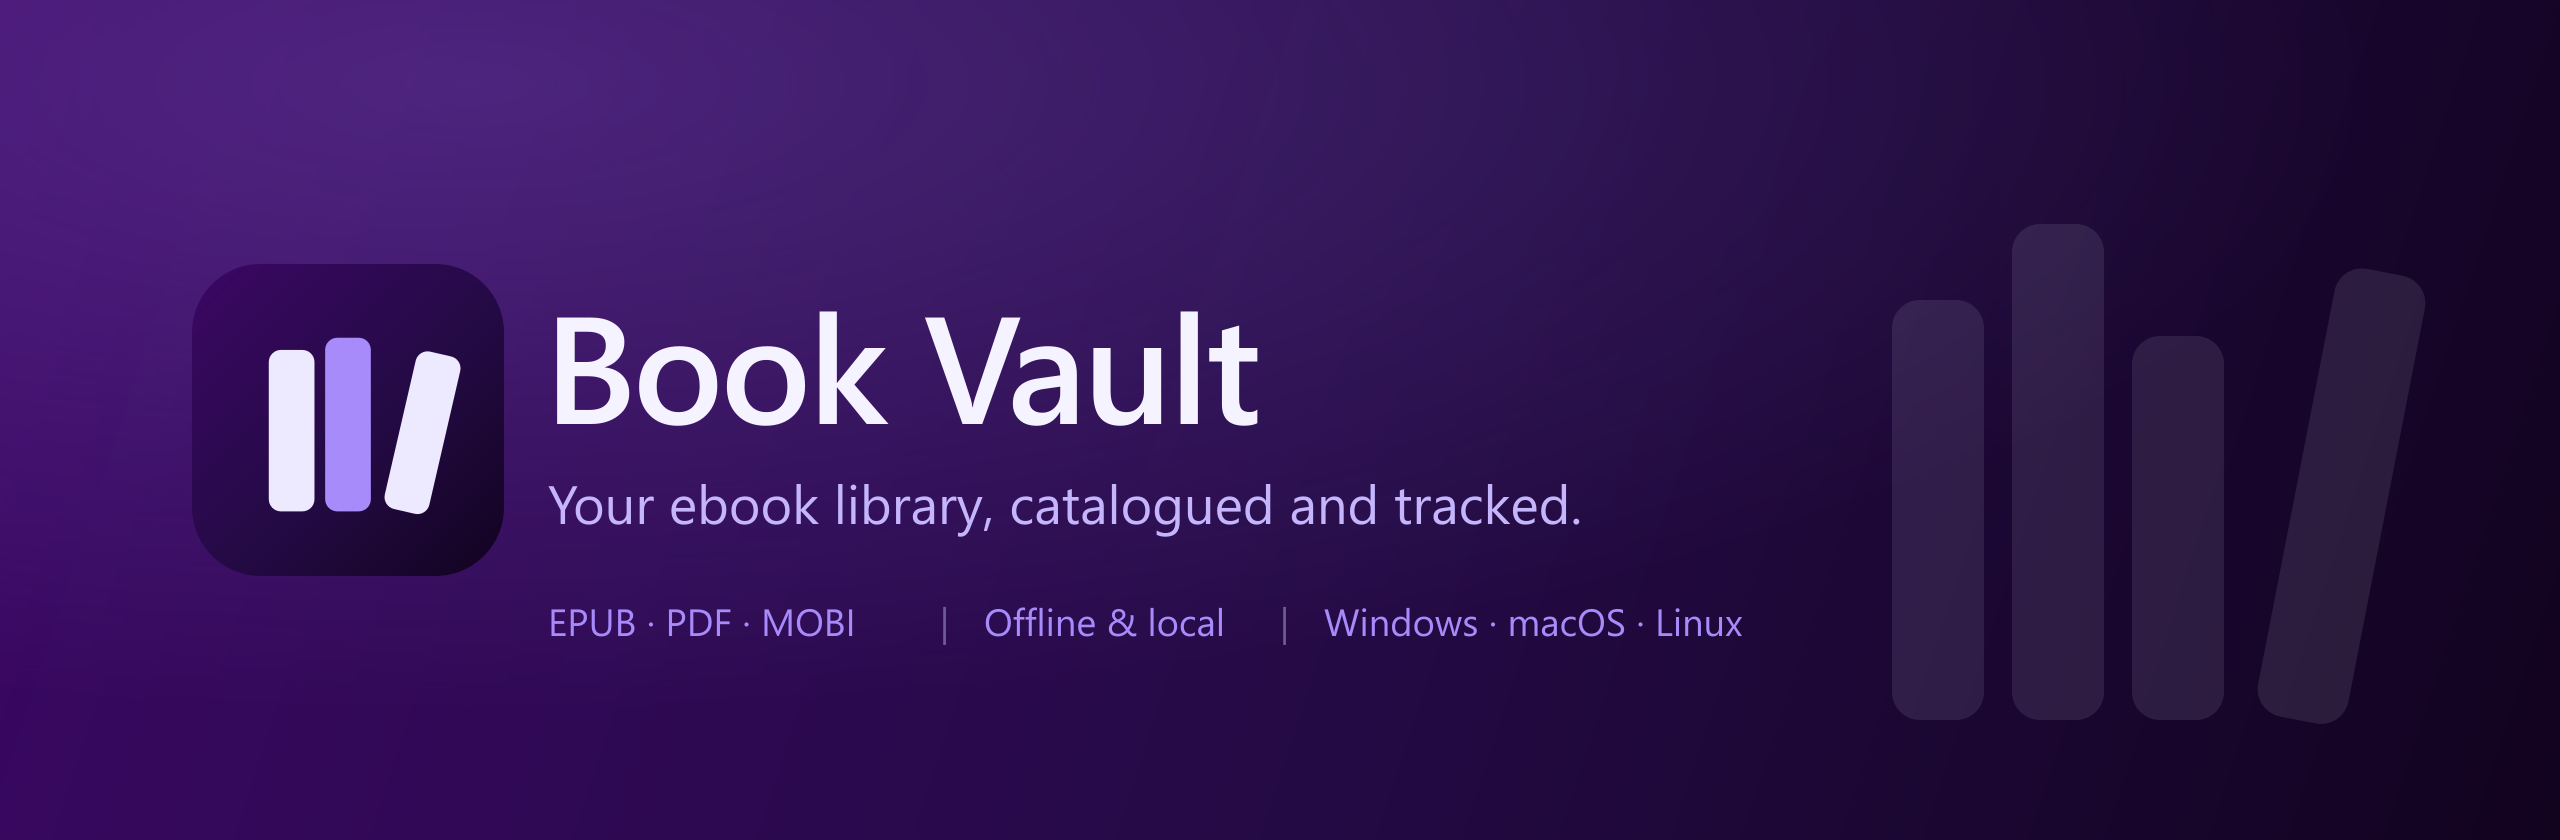
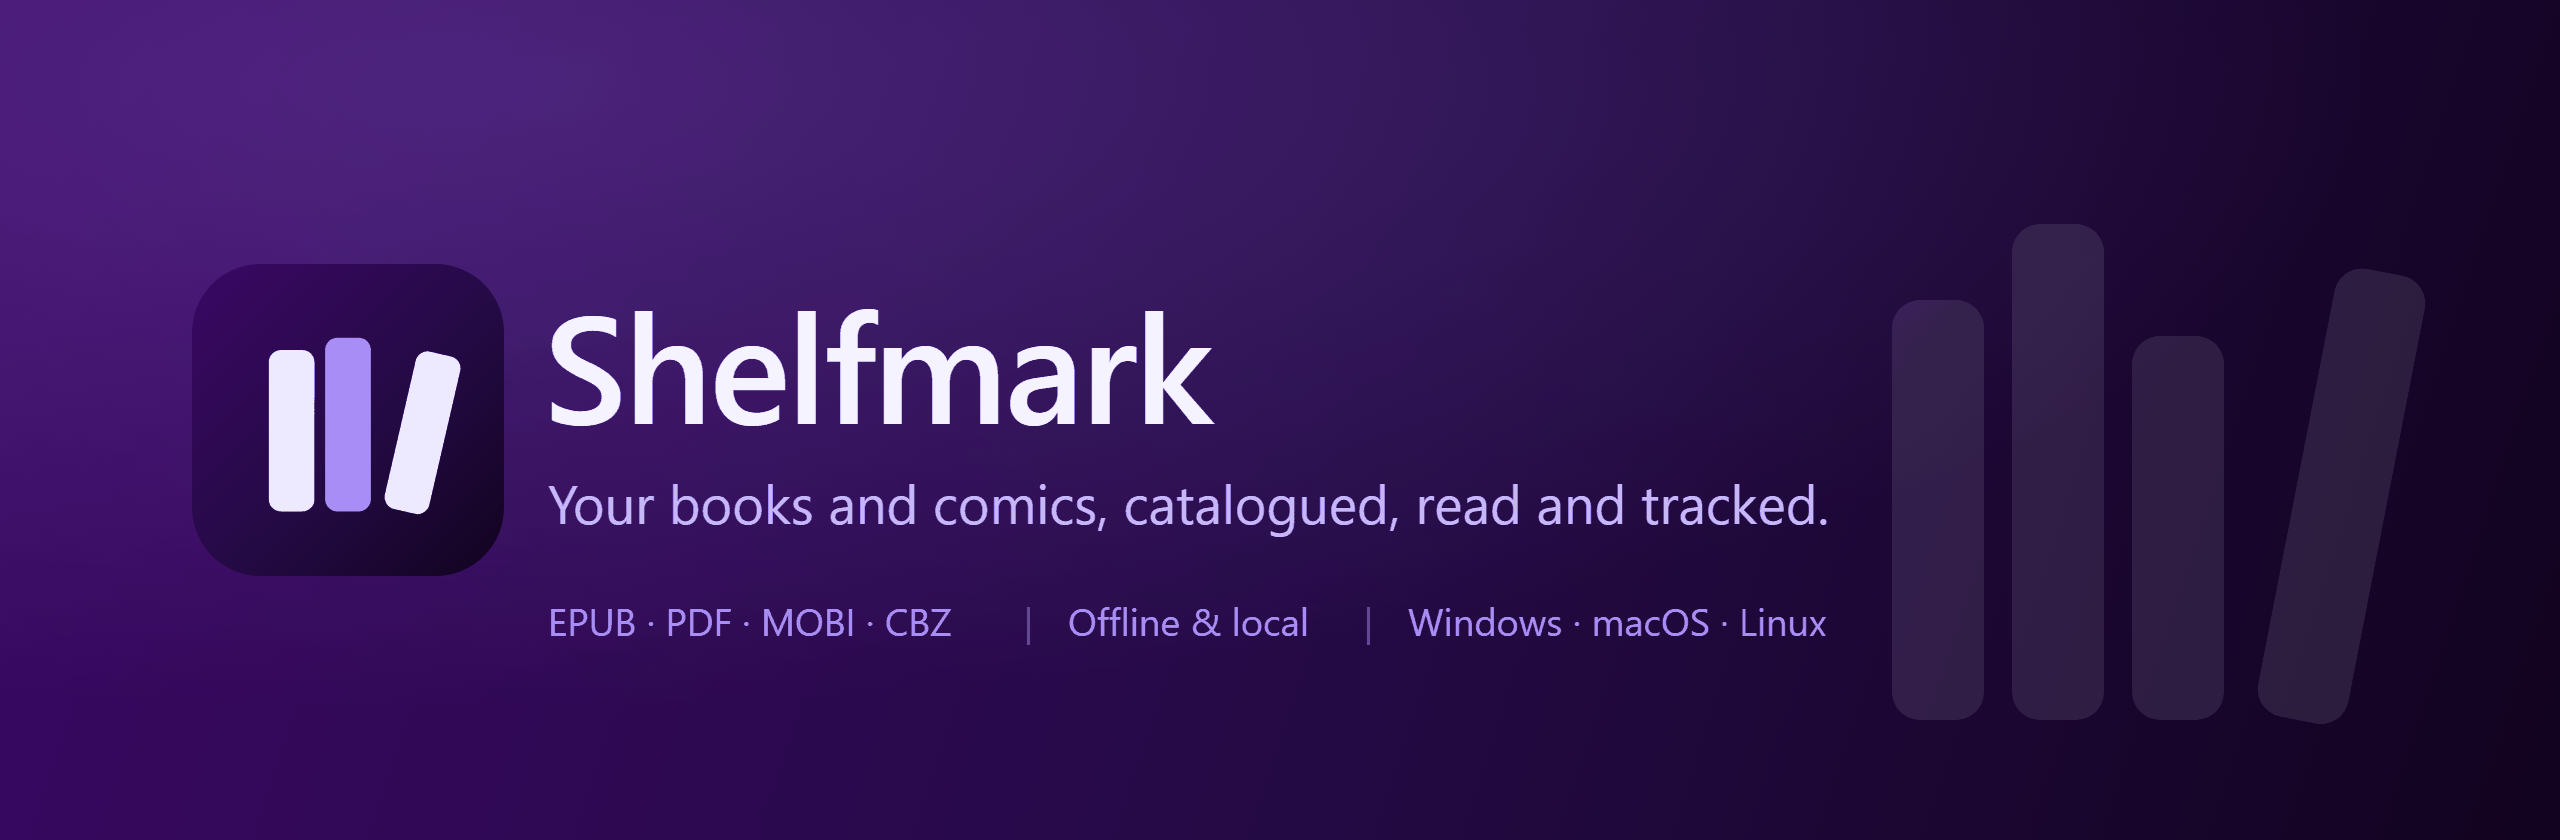
Rename Book Vault to Shelfmark
The old name described a narrower app. "Book" excluded the comics section
added in 0.3.0, and "Vault" said storage at a point where the app also reads
EPUBs itself and tracks what you finish. A shelfmark is the code a library
uses to say where an item sits on the shelf - indifferent to whether that
item is a novel or issue #103, and it happens to name the mark already in
the logo: three spines with the third leaning.

Renamed: product name, window title, npm package, cargo package and lib
(shelfmark / shelfmark_lib), the binary, release artifacts, the UI, the
banner wordmark and the README.

NOT renamed: the bundle identifier, still com.kas.bookvault. That string is
what picks the platform app-data directory, so changing it would strand
library.db and every cached cover behind a name no build looks under. It is
invisible to users. The localStorage keys (bv.readerPrefs, bv.libraryView.*)
are left alone for the same reason - renaming them would silently reset
reader typography and the grid/list choice.

The README also picked up the scope it had been missing: comics and series
shelves, CBZ/CBR in the format table with the reason CBR stays unopened, and
the removal of word counts and the reading check-in, which it still
described.

Version goes to 0.4.0 - new identity, and the installer needs a version
change to supersede an installed 0.3.x anyway.

Changed region(s): [[0.2188, 0.3714, 0.5, 0.5262], [0.2188, 0.5881, 0.7188, 0.65], [0.3438, 0.7119, 0.7188, 0.7738]]

diff --git a/src/pages/Dashboard.tsx b/src/pages/Dashboard.tsx
@@ -48,13 +48,13 @@ export default function Dashboard({
       ) : !configured ? (
         <EmptyState
           title="Let’s set things up"
-          body="Point Book Vault at the folder that holds your books (EPUB, PDF, MOBI), then scan to build your library."
+          body="Point Shelfmark at the folder that holds your books (EPUB, PDF, MOBI) and, if you have them, a second folder for comics (CBZ, CBR, PDF). Then scan to build your library."
           action={<Button variant="primary" onClick={() => goto("settings")}>Open Settings</Button>}
         />
       ) : stats && stats.total_books + stats.total_comics === 0 ? (
         <EmptyState
-          title="No books indexed yet"
-          body="Add book files to your folder, then run a scan to index them and pull their metadata."
+          title="Nothing indexed yet"
+          body="Add books or comics to your folders, then run a scan to index them and pull their metadata."
           action={
             <Button variant="primary" busy={scanning} onClick={onScan}>
               <Icon name="scan" className="h-4 w-4" /> Scan Books

diff --git a/src/pages/Library.tsx b/src/pages/Library.tsx
@@ -850,7 +850,7 @@ function BookDrawer({
   }
 
   async function del() {
-    if (!confirm(`Remove "${book.title}" from the library?\n\nThis only removes it from Book Vault — the file on disk is left untouched.`))
+    if (!confirm(`Remove "${book.title}" from the library?\n\nThis only removes it from Shelfmark — the file on disk is left untouched.`))
       return;
     try {
       await api.deleteBook(book.id);
@@ -943,7 +943,7 @@ function BookDrawer({
                   <Icon name="open" className="h-4 w-4" /> Open in system reader
                 </Button>
                 <p className="mt-1.5 text-center text-[11px] text-slate-500">
-                  Book Vault's reader opens in its own window and tracks your position as you
+                  Shelfmark's reader opens in its own window and tracks your position as you
                   go. The system reader won't report progress back.
                 </p>
               </>

diff --git a/src/pages/Settings.tsx b/src/pages/Settings.tsx
@@ -118,7 +118,7 @@ export default function SettingsPage({
           <Icon name="sparkles" className="h-4 w-4 text-teal-400" /> About metadata
         </h2>
         <p className="leading-relaxed">
-          Book Vault first reads metadata embedded in each file. From a book's detail panel you can also
+          Shelfmark first reads metadata embedded in each file. From a book's detail panel you can also
           fetch richer data (cover, page count, subjects, description) from{" "}
           <span className="text-slate-200">Open Library</span> — a free, open catalogue. Goodreads shut its
           public API in 2020, so Open Library stands in for it. If nothing matches, just type the details in

diff --git a/src/App.tsx b/src/App.tsx
@@ -99,7 +99,7 @@ export default function App() {
         >
           <Logo className="h-9 w-9 shrink-0 rounded-lg shadow-lg shadow-violet-950/40" />
           <div>
-            <div className="text-sm font-semibold leading-tight">Book Vault</div>
+            <div className="text-sm font-semibold leading-tight">Shelfmark</div>
             <div className="text-[11px] text-slate-500">Reading tracker</div>
           </div>
         </div>

diff --git a/src/ui.tsx b/src/ui.tsx
@@ -165,7 +165,7 @@ export function Icon({
   );
 }
 
-/** The Book Vault mark — mirrors the app icon (see app-icon.svg). */
+/** The Shelfmark mark — mirrors the app icon (see app-icon.svg). */
 export function Logo({ className }: { className?: string }) {
   return (
     <svg viewBox="0 0 1024 1024" className={className} xmlns="http://www.w3.org/2000/svg">

diff --git a/index.html b/index.html
@@ -3,7 +3,7 @@
   <head>
     <meta charset="UTF-8" />
     <meta name="viewport" content="width=device-width, initial-scale=1.0" />
-    <title>Book Vault</title>
+    <title>Shelfmark</title>
   </head>
 
   <body>

diff --git a/src-tauri/src/lib.rs b/src-tauri/src/lib.rs
@@ -1,4 +1,4 @@
-//! Book Vault — personal ebook library & reading tracker. Rust core entry point:
+//! Shelfmark — personal library and reader for ebooks and comics. Rust core entry point:
 //! wires up SQLite state, the HTTP client, and the Tauri command surface.
 
 mod commands;
@@ -82,7 +82,7 @@ pub fn run() {
             }
 
             let http = reqwest::Client::builder()
-                .user_agent("BookVault/0.1 (personal library manager)")
+                .user_agent("Shelfmark/0.4 (personal library manager)")
                 .timeout(Duration::from_secs(30))
                 .build()
                 .map_err(|e| Box::<dyn std::error::Error>::from(e.to_string()))?;

diff --git a/src-tauri/src/formats/mod.rs b/src-tauri/src/formats/mod.rs
@@ -122,7 +122,7 @@ mod tests {
 
     /// Build a small, spec-compliant EPUB in a temp file and return its path.
     fn build_epub() -> std::path::PathBuf {
-        let path = std::env::temp_dir().join(format!("bookvault_test_{}.epub", std::process::id()));
+        let path = std::env::temp_dir().join(format!("shelfmark_test_{}.epub", std::process::id()));
         let mut zip = ZipWriter::new(std::fs::File::create(&path).unwrap());
         let stored = SimpleFileOptions::default().compression_method(CompressionMethod::Stored);
         let deflated = SimpleFileOptions::default().compression_method(CompressionMethod::Deflated);

diff --git a/src-tauri/src/pdfcover.rs b/src-tauri/src/pdfcover.rs
@@ -98,7 +98,7 @@ mod tests {
 
     /// Build a valid one-page (200x300) PDF at a temp path.
     fn build_pdf() -> PathBuf {
-        let path = std::env::temp_dir().join(format!("bookvault_test_{}.pdf", std::process::id()));
+        let path = std::env::temp_dir().join(format!("shelfmark_test_{}.pdf", std::process::id()));
         let mut doc = Document::with_version("1.5");
         let pages_id = doc.new_object_id();
         let content_id = doc.add_object(Stream::new(dictionary! {}, Vec::new()));

diff --git a/src-tauri/examples/make_sample.rs b/src-tauri/examples/make_sample.rs
@@ -63,7 +63,7 @@ fn make_pdf(dir: &std::path::Path) -> Result<(), Box<dyn std::error::Error>> {
     // Document Info so metadata extraction has something to read, too.
     let info_id = doc.add_object(dictionary! {
         "Title" => Object::string_literal("A Sample PDF"),
-        "Author" => Object::string_literal("Book Vault"),
+        "Author" => Object::string_literal("Shelfmark"),
     });
     doc.trailer.set("Info", info_id);
     doc.save(&out)?;

diff --git a/src-tauri/src/main.rs b/src-tauri/src/main.rs
@@ -2,5 +2,5 @@
 #![cfg_attr(not(debug_assertions), windows_subsystem = "windows")]
 
 fn main() {
-    bookvault_lib::run()
+    shelfmark_lib::run()
 }

diff --git a/README.md b/README.md
@@ -1,5 +1,5 @@
 <p align="center">
-  <img src="docs/banner.png" alt="Book Vault — your ebook library, catalogued and tracked" width="100%">
+  <img src="docs/banner.png" alt="Shelfmark — your books and comics, catalogued, read and tracked" width="100%">
 </p>
 
 <p align="center">
@@ -9,9 +9,10 @@
   <img src="https://img.shields.io/badge/data-100%25%20local-a78bfa?style=flat-square" alt="100% local">
 </p>
 
-Point Book Vault at a folder of ebooks and it builds you a proper library: it reads
-the metadata out of each file, fetches cover art and page counts for anything
-missing, and then tracks what you've read.
+Point Shelfmark at your folders and it builds you a proper library: it reads the
+metadata out of every ebook and comic, fetches cover art and page counts for
+anything missing, reads your EPUBs in a reader of its own, and tracks what
+you've finished.
 
 Everything stays on your machine — a single SQLite file and a folder of cached
 covers. There's no account, no sync, and no telemetry.
@@ -20,10 +21,19 @@ covers. There's no account, no sync, and no telemetry.
 
 ## Features
 
-**Scans a folder, understands the files**
+**Scans your folders, understands the files**
 Walks a directory (subfolders included) and indexes every `.epub`, `.pdf`,
 `.mobi`, `.azw`, and `.azw3`, reading title, author, publisher, subjects, ISBN,
-description, page count, and word count out of the file itself.
+description and page count out of the file itself. Comics get a folder of their
+own, because a comic is often just a PDF and only you know which is which.
+
+**Keeps comics in order**
+`.cbz` and `.cbr` sit in a separate Comics section, tagged from `ComicInfo.xml`
+where a file carries one. Volumes of the same run collapse into a single shelf
+tile that opens to reveal the issues underneath — so a hundred volumes of one
+title don't bury everything else. Series names are read from the file's tags or,
+failing that, off the filename: `Vol. 3`, `#12`, `v03` and `第100巻` all parse,
+and you can always set the series by hand.
 
 **Finds covers, even when the file has none**
 EPUB and MOBI covers are lifted straight from the file. PDFs don't carry one, so
@@ -49,23 +59,26 @@ the text itself, so changing the type size or resizing the window never moves
 them.
 
 **Or hands them to whatever you already use**
-PDFs go straight to your system's default application, and EPUBs can too from
-the details panel. Book Vault marks the book as started and asks how far you got
-when you come back, since an external reader can't report position back.
+PDFs and comics go straight to your system's default application — YACReader,
+SumatraPDF, Preview, whatever you have — and EPUBs can too, from the details
+panel. An external reader can't report your position back, so those you mark off
+yourself.
 
 **Tracks your reading**
-A sortable table — or a cover grid — of every book with reading status, progress,
-a 1–5 star rating, and free-text categories with a preset picker. Reading an EPUB
-in the built-in reader updates progress on its own; nothing to type in.
+A sortable table — or a cover grid — of everything you own, with reading status,
+progress, a 1–5 star rating, and free-text categories with a preset picker.
+Reading an EPUB in the built-in reader updates progress on its own; nothing to
+type in.
 
 **Shows you the numbers**
-A dashboard totalling books, pages, and words read, what you're part-way through,
-and a breakdown by category.
+A dashboard counting books read, comics read, pages read and what you're
+part-way through, plus a breakdown by category. Totals move when you finish
+something, so they mean what they say.
 
 ## Install
 
 Grab the installer for your platform from the
-[latest release](https://github.com/infonality/book-vault/releases/latest).
+[latest release](https://github.com/infonality/shelfmark/releases/latest).
 
 | Platform | File |
 | --- | --- |
@@ -77,23 +90,27 @@ The builds aren't code-signed, so the first launch needs a nudge: on macOS
 right-click the app and choose **Open**; on Windows click **More info → Run
 anyway**; the AppImage needs `chmod +x` before it will run.
 
-Then open **Settings**, choose the folder your books live in, and hit **Scan
-Books**.
+Then open **Settings**, choose the folder your books live in — and a second one
+for comics, if you keep them — and hit **Scan**.
 
 ## How the metadata works
 
-What can be read from a file varies a lot by format, so Book Vault takes what it
+What can be read from a file varies a lot by format, so Shelfmark takes what it
 can get and lets you correct the rest — every field stays editable.
 
-| Format | Metadata | Pages | Words | Cover |
-| --- | --- | --- | --- | --- |
-| EPUB | Full Dublin Core from the OPF | Estimated from word count | **Counted** from the text | Embedded |
-| PDF | Info dictionary | **Exact** page count | Estimated from pages | First page, rendered |
-| MOBI / AZW | EXTH header | Estimated | Estimated | Embedded when present |
+| Format | Metadata | Pages | Cover |
+| --- | --- | --- | --- |
+| EPUB | Full Dublin Core from the OPF | Estimated | Embedded |
+| PDF | Info dictionary | **Exact** page count | First page, rendered |
+| MOBI / AZW | EXTH header | Estimated | Embedded when present |
+| CBZ | `ComicInfo.xml` when present | **Exact** — one per image | First page |
+| CBR | Filename only | — | — |
 
-Estimated word counts are shown with a `~` and use a words-per-page figure you
-can change in Settings. Pages and words only count toward your totals once a book
-is marked finished.
+Pages only count toward your totals once something is marked finished.
+
+CBR is deliberately left unopened. RAR's reference decoder ships under a licence
+that can't be vendored into an MIT project, so a `.cbr` is catalogued from its
+filename and nothing more. Repack it as a `.cbz` and it gets the full treatment.
 
 Reflowable text has no fixed pages, so the reader stores your position as a spine
 index plus a ratio through that chapter rather than a page number — it survives a
@@ -158,6 +175,7 @@ src/                    React + TypeScript UI
   api.ts                typed wrappers over the Tauri command surface
   ui.tsx                shared primitives (icons, buttons, star rating)
   reader-prefs.ts       themes, typefaces and spacing for the reader
+  series.ts             groups comics into series from tags or filenames
   pages/                Dashboard, Library (table/grid + drawer), Settings
     Reader.tsx          paginated reader; Books-style presentation
     ReaderWindow.tsx    host for the standalone reader window
@@ -165,14 +183,18 @@ src-tauri/src/
   commands.rs           Tauri IPC boundary
   db.rs                 SQLite schema and queries
   scanner.rs            folder walk, registration, cover refresh
-  formats/              epub / pdf / mobi metadata extraction
+  formats/              epub / pdf / mobi / comic metadata extraction
   reader.rs             spine, contents, sanitising, asset serving
   pdfcover.rs           PDF first-page rendering via PDFium
   metadata.rs           Open Library search and cover download
 ```
 
 Your library lives in the platform app-data directory — `library.db` plus a
-`covers/` folder. Book Vault never modifies the ebook files themselves.
+`covers/` folder. Shelfmark never modifies the files themselves.
+
+The bundle identifier is still `com.kas.bookvault`, from when this was called
+Book Vault. That string is what picks the app-data directory, so changing it
+would strand every existing library. It's invisible to users; leave it be.
 
 ## Tests
 
